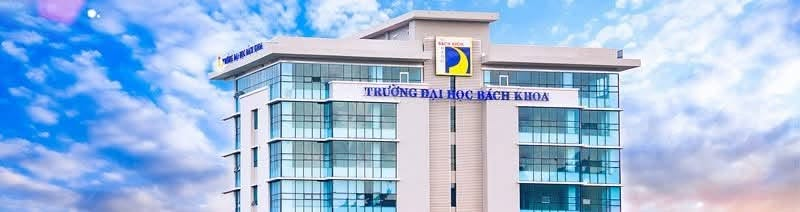
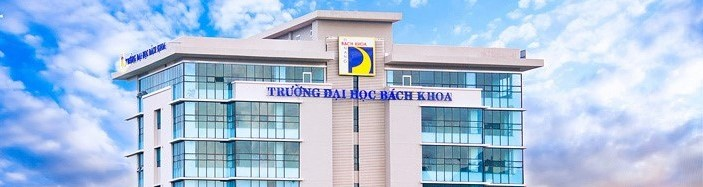
style(ui): make filter bar sticky right below header and span full width on mobile

diff --git a/frontend/src/components/AllListingsView.jsx b/frontend/src/components/AllListingsView.jsx
@@ -140,7 +140,7 @@ export default function AllListingsView() {
       <div className="w-full px-4 md:px-[30px] pt-2 relative z-10 max-w-[1400px] mx-auto">
         
         {/* Shopee Sort Bar */}
-        <div className="bg-white sm:bg-slate-100 px-2 sm:px-5 py-2 sm:py-3 rounded-none sm:rounded-lg flex flex-col sm:flex-row sm:items-center justify-between mb-4 sm:mb-5 gap-3 border-b sm:border-none border-slate-200 shadow-sm sm:shadow-none">
+        <div className="sticky top-16 sm:relative sm:top-0 z-30 sm:z-10 -mx-4 sm:mx-0 -mt-2 sm:mt-0 w-[calc(100%+2rem)] sm:w-auto bg-white sm:bg-slate-100 px-4 sm:px-5 py-2 sm:py-3 rounded-none sm:rounded-lg flex flex-col sm:flex-row sm:items-center justify-between mb-4 sm:mb-5 gap-3 border-b sm:border-none border-slate-200 shadow-sm sm:shadow-none">
           <div className="grid grid-cols-4 sm:flex sm:items-center sm:flex-wrap gap-1.5 sm:gap-2.5 text-[13px] text-slate-600 w-full sm:w-auto">
             <span className="text-slate-500 font-normal shrink-0 hidden sm:block">Sắp xếp theo</span>
             

diff --git a/frontend/src/components/HomepageView.jsx b/frontend/src/components/HomepageView.jsx
@@ -268,7 +268,7 @@ export default function HomepageView() {
           </div>
 
           {/* Quick-link Chips */}
-          <div className="flex flex-wrap justify-center items-center gap-3 -mt-5 md:-mt-4">
+          <div className="flex flex-wrap justify-center items-center gap-3 -mt-4">
             <span className="text-xs md:text-sm text-on-surface-variant font-medium">Phổ biến:</span>
             {recentSearches && recentSearches.length > 0 ? (
               recentSearches.slice(0, 3).map((searchQuery, idx) => (
